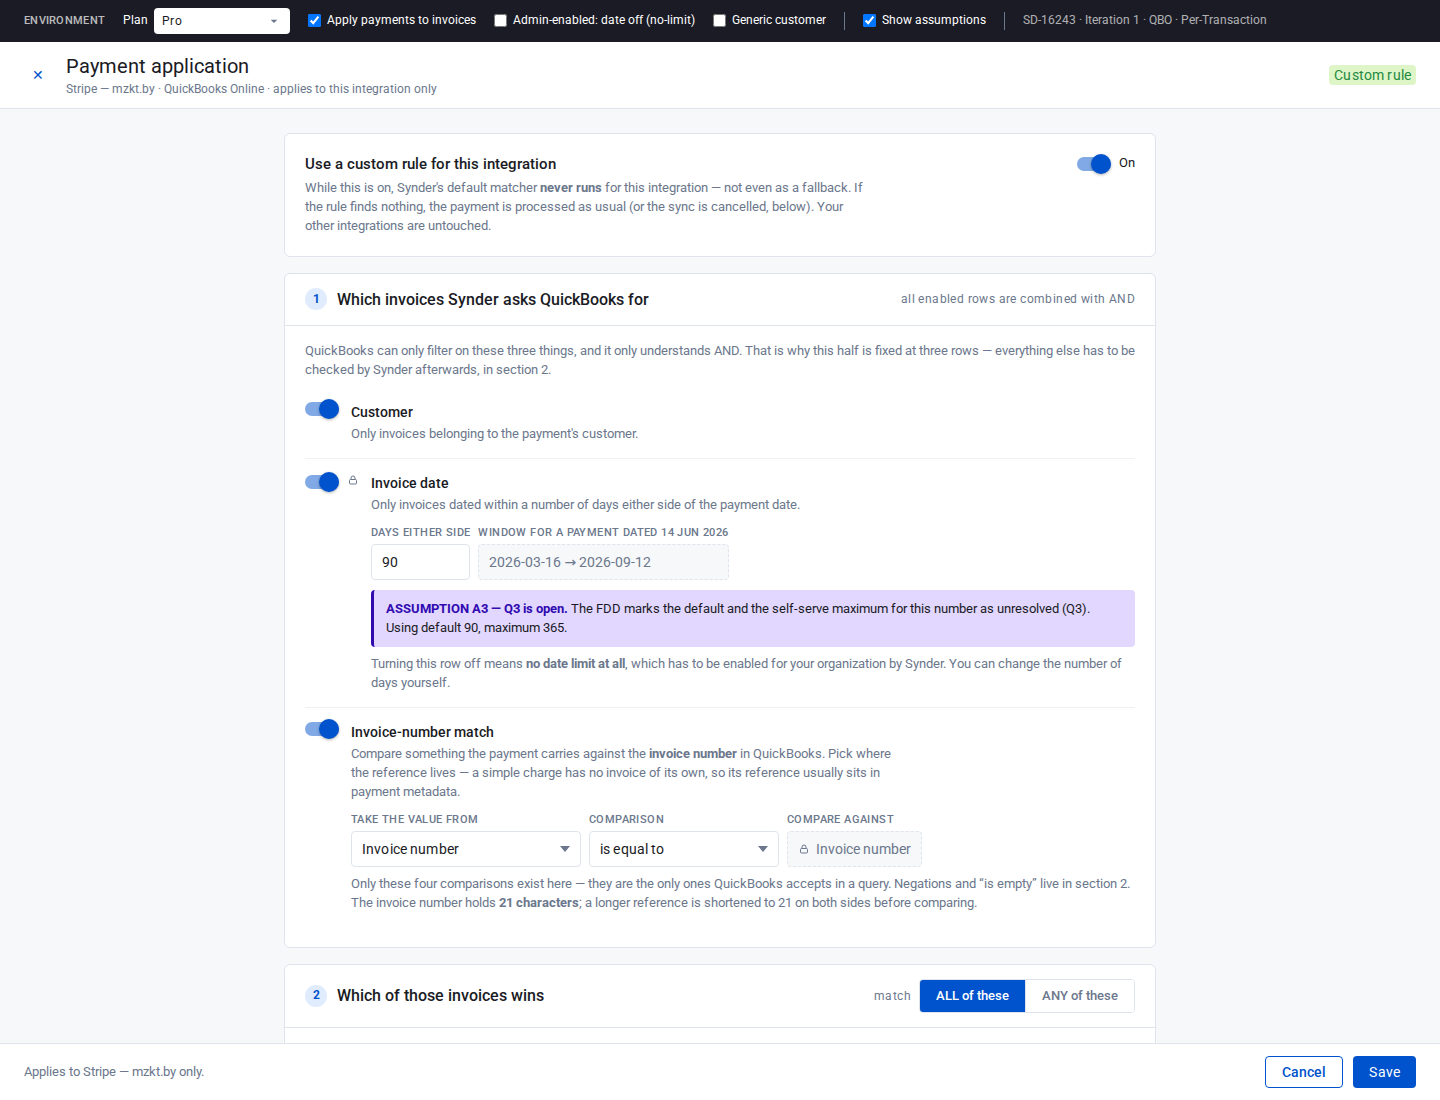
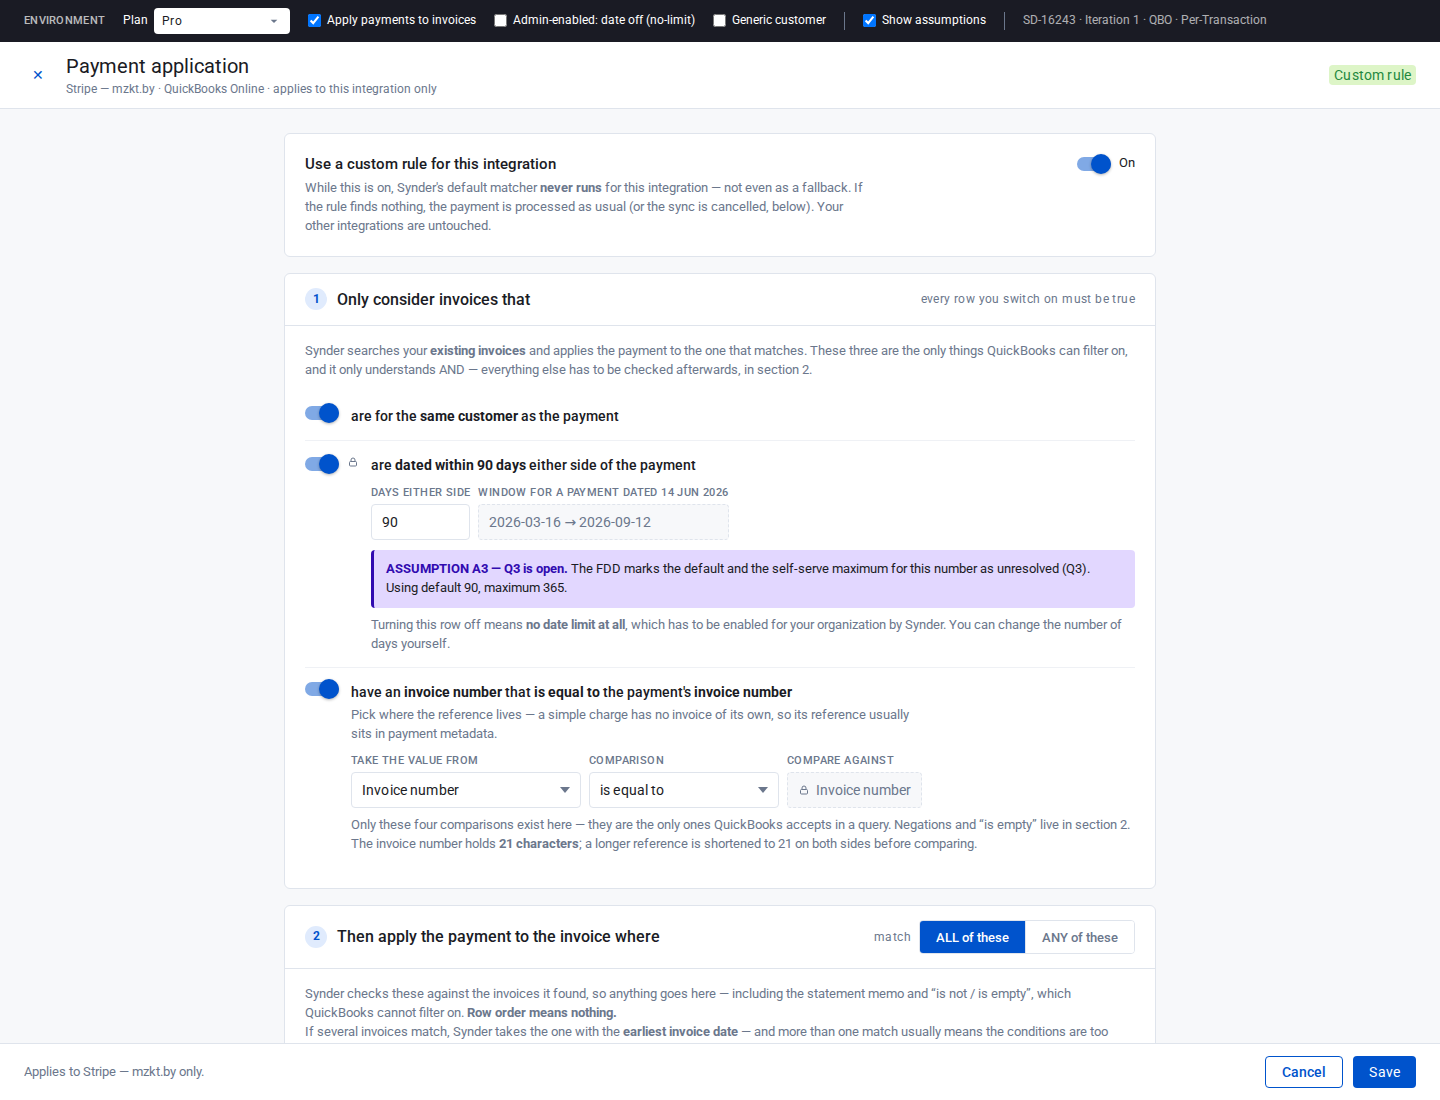
Payment application: rewrite the two section headings and the scope row labels
Ignat's review, 2026-09-01. Section 1 asked a question ('Which invoices Synder
asks QuickBooks for') that the row labels didn't answer: Customer / Invoice date
/ Invoice-number match are field names, so the section read as a list of things
an invoice has, with the real constraint hidden in grey text below. A toggle
labelled with a field name is also ambiguous when off.

Row labels now state the constraint and carry live values, so the section reads
as one instruction:

  1. Only consider invoices that
     - are for the same customer as the payment
     - are dated within 90 days either side of the payment
     - have an invoice number that is equal to the payment's invoice number
  2. Then apply the payment to the invoice where  [ALL / ANY of these]

'Wins' is gone everywhere. It came from the FDD summary, but that doc is
dev-facing; in accounting nothing wins, one invoice receives the payment, and
the word implied a contest is normal when several matches actually means the
rule is too loose. The tie-break line now says so.

Also adopts Ignat's 'existing invoices' for the lead line - it names the
alternative (Synder creating one), which is the point of the feature.

94 assertions (8 new, covering both headings, constraint-shaped labels with
live values, and the absence of 'wins').

diff --git a/projects/payment-application-engine/index.html b/projects/payment-application-engine/index.html
@@ -56,7 +56,8 @@ button{font-family:inherit}
 .rr:last-of-type{border-bottom:0}
 .rr.off{opacity:.55}
 .rr-main{flex:1;min-width:0}
-.rr-t{font-size:14px;font-weight:500;display:flex;align-items:center;gap:8px;flex-wrap:wrap}
+.rr-t{font-size:14px;font-weight:500;line-height:1.45}
+.rr-t .status{margin-left:8px;vertical-align:1px}
 .rr-ctl{display:flex;flex-wrap:wrap;gap:8px;align-items:flex-start;margin-top:10px}
 .fld{display:flex;flex-direction:column;gap:3px}
 .fld-l{font-size:11px;text-transform:uppercase;letter-spacing:.4px;color:var(--color-grey-50);font-weight:500}
@@ -452,7 +453,7 @@ function renderGSP(){
     btn  = '<button class="btn '+(configured?'btn-outlined':'')+'" id="g-open">'+(configured?'Edit rule':'Configure')+'</button>';
   }
   rows += gspRow('Payment application '+chip,
-    'Replace Synder\'s default invoice matching with a rule you define for this integration: which invoices Synder asks QuickBooks for, and which of those wins.'+
+    'Replace Synder\'s default invoice matching with a rule you define for this integration: which of your existing invoices Synder considers, and which one gets the payment.'+
     (!planOK() ? ' <b>Available on Pro, Pro Max and Premium.</b>' : '')+
     (!env.applyPayments && planOK() ? ' <b>Turn on “Apply payments to invoices” first</b> — otherwise there is nothing for a rule to do.' : ''),
     btn);
@@ -515,18 +516,16 @@ function renderOverlay(){
   }
 
   /* ================= 1. SCOPE ======================================== */
-  h += '<div class="panel"><div class="panel-h"><span class="panel-t" style="display:flex;align-items:center;gap:10px"><span class="sec-n">1</span> Which invoices Synder asks QuickBooks for</span>'+
-    '<span class="text-caption text-secondary">all enabled rows are combined with AND</span></div><div class="panel-b">'+
-    '<div class="hint" style="margin:-4px 0 8px">QuickBooks can only filter on these three things, and it only understands AND. That is why this half is fixed at three rows — everything else has to be checked by Synder afterwards, in section 2.</div>';
+  h += '<div class="panel"><div class="panel-h"><span class="panel-t" style="display:flex;align-items:center;gap:10px"><span class="sec-n">1</span> Only consider invoices that</span>'+
+    '<span class="text-caption text-secondary">every row you switch on must be true</span></div><div class="panel-b">'+
+    '<div class="hint" style="margin:-4px 0 12px">Synder searches your <b>existing invoices</b> and applies the payment to the one that matches. These three are the only things QuickBooks can filter on, and it only understands AND — everything else has to be checked afterwards, in section 2.</div>';
 
   // Customer
   h += '<div class="rr'+(s.customer.on?'':' off')+'">'+
     '<span class="tog"><span class="toggle'+(s.customer.on?' on':'')+'" id="c-cust"></span></span>'+
-    '<div class="rr-main"><div class="rr-t">Customer'+(errFor(errs,'guard').length?' <span class="status status-red">needed</span>':'')+'</div>'+
-    '<div class="row-d">Only invoices belonging to the payment\'s customer.'+
-      (env.genericCustomer && s.customer.on ? '' : '')+'</div>'+
+    '<div class="rr-main"><div class="rr-t">are for the <b>same customer</b> as the payment'+(errFor(errs,'guard').length?' <span class="status status-red">needed</span>':'')+'</div>'+
     (env.genericCustomer && s.customer.on
-      ? '<div class="warn"><b>Generic customer is on for this integration.</b> Every transaction is booked to one customer, so this row stops narrowing anything — the candidate list will be every invoice of the generic customer in the date window.'+
+      ? '<div class="warn"><b>Generic customer is on for this integration.</b> Every transaction is booked to one customer, so this row stops narrowing anything — Synder will look at every invoice of the generic customer in the date window.'+
         '<div class="asm"><b>ASSUMPTION A2 — Q4 is open.</b> The FDD leaves “what do we do when Generic customer is on” unanswered (Q4) and only says it must be surfaced at configuration time. Surfaced here as a warning, not a block.</div></div>'
       : '')+
     '</div></div>';
@@ -535,15 +534,14 @@ function renderOverlay(){
   const dateOffAllowed = env.adminNoLimit;
   h += '<div class="rr'+(s.date.on?'':' off')+'">'+
     '<span class="tog'+(dateOffAllowed?'':' nolock')+'"><span class="toggle'+(s.date.on?' on':'')+'" id="c-date"></span>'+(dateOffAllowed?'':'<span style="color:var(--color-grey-50)" title="Turning this row off means no date limit, which Synder has to enable for your organization">'+LOCK+'</span>')+'</span>'+
-    '<div class="rr-main"><div class="rr-t">Invoice date</div>'+
-    '<div class="row-d">Only invoices dated within a number of days either side of the payment date.</div>'+
+    '<div class="rr-main"><div class="rr-t">are <b>dated within '+s.date.n+' days</b> either side of the payment</div>'+
     (s.date.on
       ? '<div class="rr-ctl"><div class="fld"><span class="fld-l">Days either side</span>'+
         '<input class="k w-narrow" type="number" min="1" max="365" id="c-days" value="'+s.date.n+'"></div>'+
         '<div class="fld"><span class="fld-l">Window for a payment dated 14 Jun 2026</span>'+
         '<div class="locked">'+shiftDays('2026-06-14',-s.date.n)+' → '+shiftDays('2026-06-14',s.date.n)+'</div></div></div>'+
         '<div class="asm"><b>ASSUMPTION A3 — Q3 is open.</b> The FDD marks the default and the self-serve maximum for this number as unresolved (Q3). Using default 90, maximum 365.</div>'
-      : '<div class="warn"><b>No date limit.</b> With this row off, invoices of any age are candidates. On a large ledger that means a much bigger candidate list and a slower sync.</div>')+
+      : '<div class="warn"><b>No date limit.</b> With this row off, invoices of any age are considered. On a large ledger that means a much longer list to search and a slower sync.</div>')+
     (dateOffAllowed
       ? ''
       : '<div class="hint" style="margin-top:8px">Turning this row off means <b>no date limit at all</b>, which has to be enabled for your organization by Synder. You can change the number of days yourself.</div>')+
@@ -553,8 +551,9 @@ function renderOverlay(){
   const mSrc = SOURCES[s.match.source];
   h += '<div class="rr'+(s.match.on?'':' off')+'">'+
     '<span class="tog"><span class="toggle'+(s.match.on?' on':'')+'" id="c-match"></span></span>'+
-    '<div class="rr-main"><div class="rr-t">Invoice-number match'+(errFor(errs,'guard').length?' <span class="status status-red">needed</span>':'')+'</div>'+
-    '<div class="row-d">Compare something the payment carries against the <b>invoice number</b> in QuickBooks. Pick where the reference lives — a simple charge has no invoice of its own, so its reference usually sits in payment metadata.</div>'+
+    '<div class="rr-main"><div class="rr-t">have an <b>invoice number</b> that <b>'+OPS[s.match.operand].label+'</b> the payment\'s <b>'+SOURCES[s.match.source].label.toLowerCase()+
+      (needsKey(s.match.source) ? ' ['+(s.match.key || '…')+']' : '')+'</b>'+(errFor(errs,'guard').length?' <span class="status status-red">needed</span>':'')+'</div>'+
+    '<div class="row-d">Pick where the reference lives — a simple charge has no invoice of its own, so its reference usually sits in payment metadata.</div>'+
     (s.match.on ?
       '<div class="rr-ctl">'+
         '<div class="fld"><span class="fld-l">Take the value from</span>'+selectEl('c-msrc', srcOpts(), s.match.source, 'w-wide')+'</div>'+
@@ -578,14 +577,14 @@ function renderOverlay(){
   h += '</div></div>';
 
   /* ================= 2. CONDITIONS =================================== */
-  h += '<div class="panel"><div class="panel-h"><span class="panel-t" style="display:flex;align-items:center;gap:10px"><span class="sec-n">2</span> Which of those invoices wins</span>'+
+  h += '<div class="panel"><div class="panel-h"><span class="panel-t" style="display:flex;align-items:center;gap:10px"><span class="sec-n">2</span> Then apply the payment to the invoice where</span>'+
     '<span style="display:flex;align-items:center;gap:8px"><span class="text-caption text-secondary">match</span>'+
     '<span class="combi"><button id="c-and" class="'+(cfg.combinator==='AND'?'on':'')+'">ALL of these</button>'+
     '<button id="c-or" class="'+(cfg.combinator==='OR'?'on':'')+'">ANY of these</button></span></span></div><div class="panel-b">'+
-    '<div class="hint" style="margin:-4px 0 12px">Synder checks these against the candidate list itself, so anything goes here — including the statement memo and “is not / is empty”, which QuickBooks cannot filter on. <b>Row order means nothing.</b> If several invoices qualify, the oldest one wins.</div>';
+    '<div class="hint" style="margin:-4px 0 12px">Synder checks these against the invoices it found, so anything goes here — including the statement memo and “is not / is empty”, which QuickBooks cannot filter on. <b>Row order means nothing.</b><br>If several invoices match, Synder takes the one with the <b>earliest invoice date</b> — and more than one match usually means the conditions are too loose.</div>';
 
   if (!cfg.conditions.length){
-    h += '<div class="ref">No conditions. Synder will apply the payment to the <b>first invoice in the candidate list</b> (oldest invoice date, then lowest id) — which is what a customer-only rule should do. Add a condition only if you need to single one out.</div>';
+    h += '<div class="ref">No conditions. Synder applies the payment to the <b>first invoice it found</b> (earliest invoice date, then lowest id) — which is what a customer-only rule should do. Add a condition only if you need to single one out.</div>';
   } else {
     h += '<div class="cond">';
     cfg.conditions.forEach((c,i)=>{
@@ -645,8 +644,8 @@ function plainTerms(){
   if (s.match.on)    bits.push('have an invoice number that <b>'+OPS[s.match.operand].label+'</b> the payment\'s <b>'+SOURCES[s.match.source].label.toLowerCase()+
                               (needsKey(s.match.source)? ' ['+(s.match.key||'…')+']':'')+'</b>');
   let h = '<div class="plain"><ol>';
-  h += '<li>Synder asks QuickBooks for invoices that '+(bits.length? bits.join(', and ') : '<b>— nothing is set, so this rule cannot be saved</b>')+
-       '. They come back oldest invoice date first.</li>';
+  h += '<li>Synder searches your existing invoices and considers only the ones that '+(bits.length? bits.join(', and ') : '<b>— nothing is set, so this rule cannot be saved</b>')+
+       '. They come back earliest invoice date first.</li>';
   if (!cfg.conditions.length){
     h += '<li>It applies the payment to the <b>first</b> invoice on that list.</li>';
   } else {
@@ -657,7 +656,7 @@ function plainTerms(){
       return '<li>'+v+'</li>';
     }).join('');
     h += '<li>Out of those, it looks for the invoice where '+(cfg.combinator==='AND'?'<b>all</b>':'<b>at least one</b>')+' of these is true:<ul style="margin:6px 0">'+rows+'</ul>'+
-         'If more than one invoice qualifies, the oldest one wins.</li>';
+         'If several invoices match, Synder takes the one with the earliest invoice date.</li>';
   }
   h += '<li>If it found one, the payment goes onto that invoice and <b>no invoice is created</b>. '+
        (cfg.overpayment
